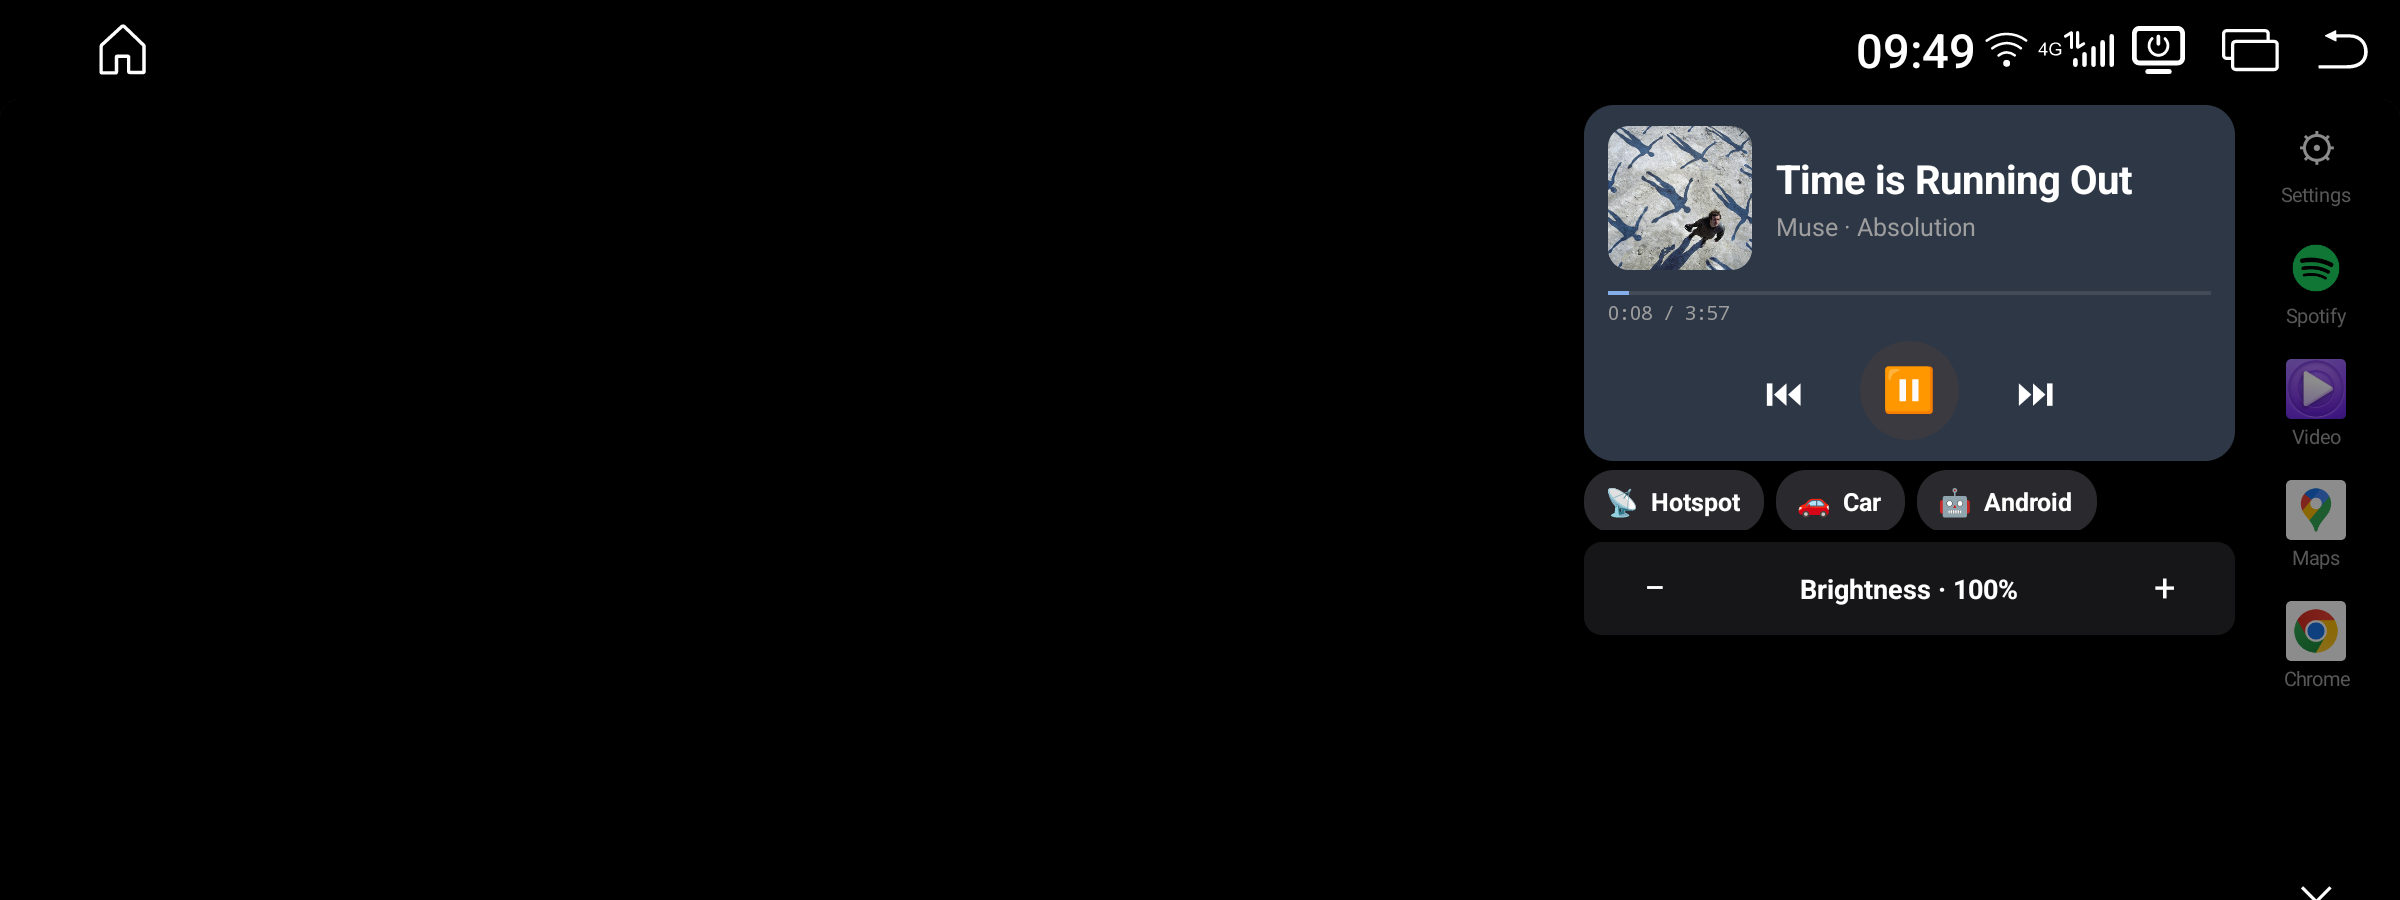
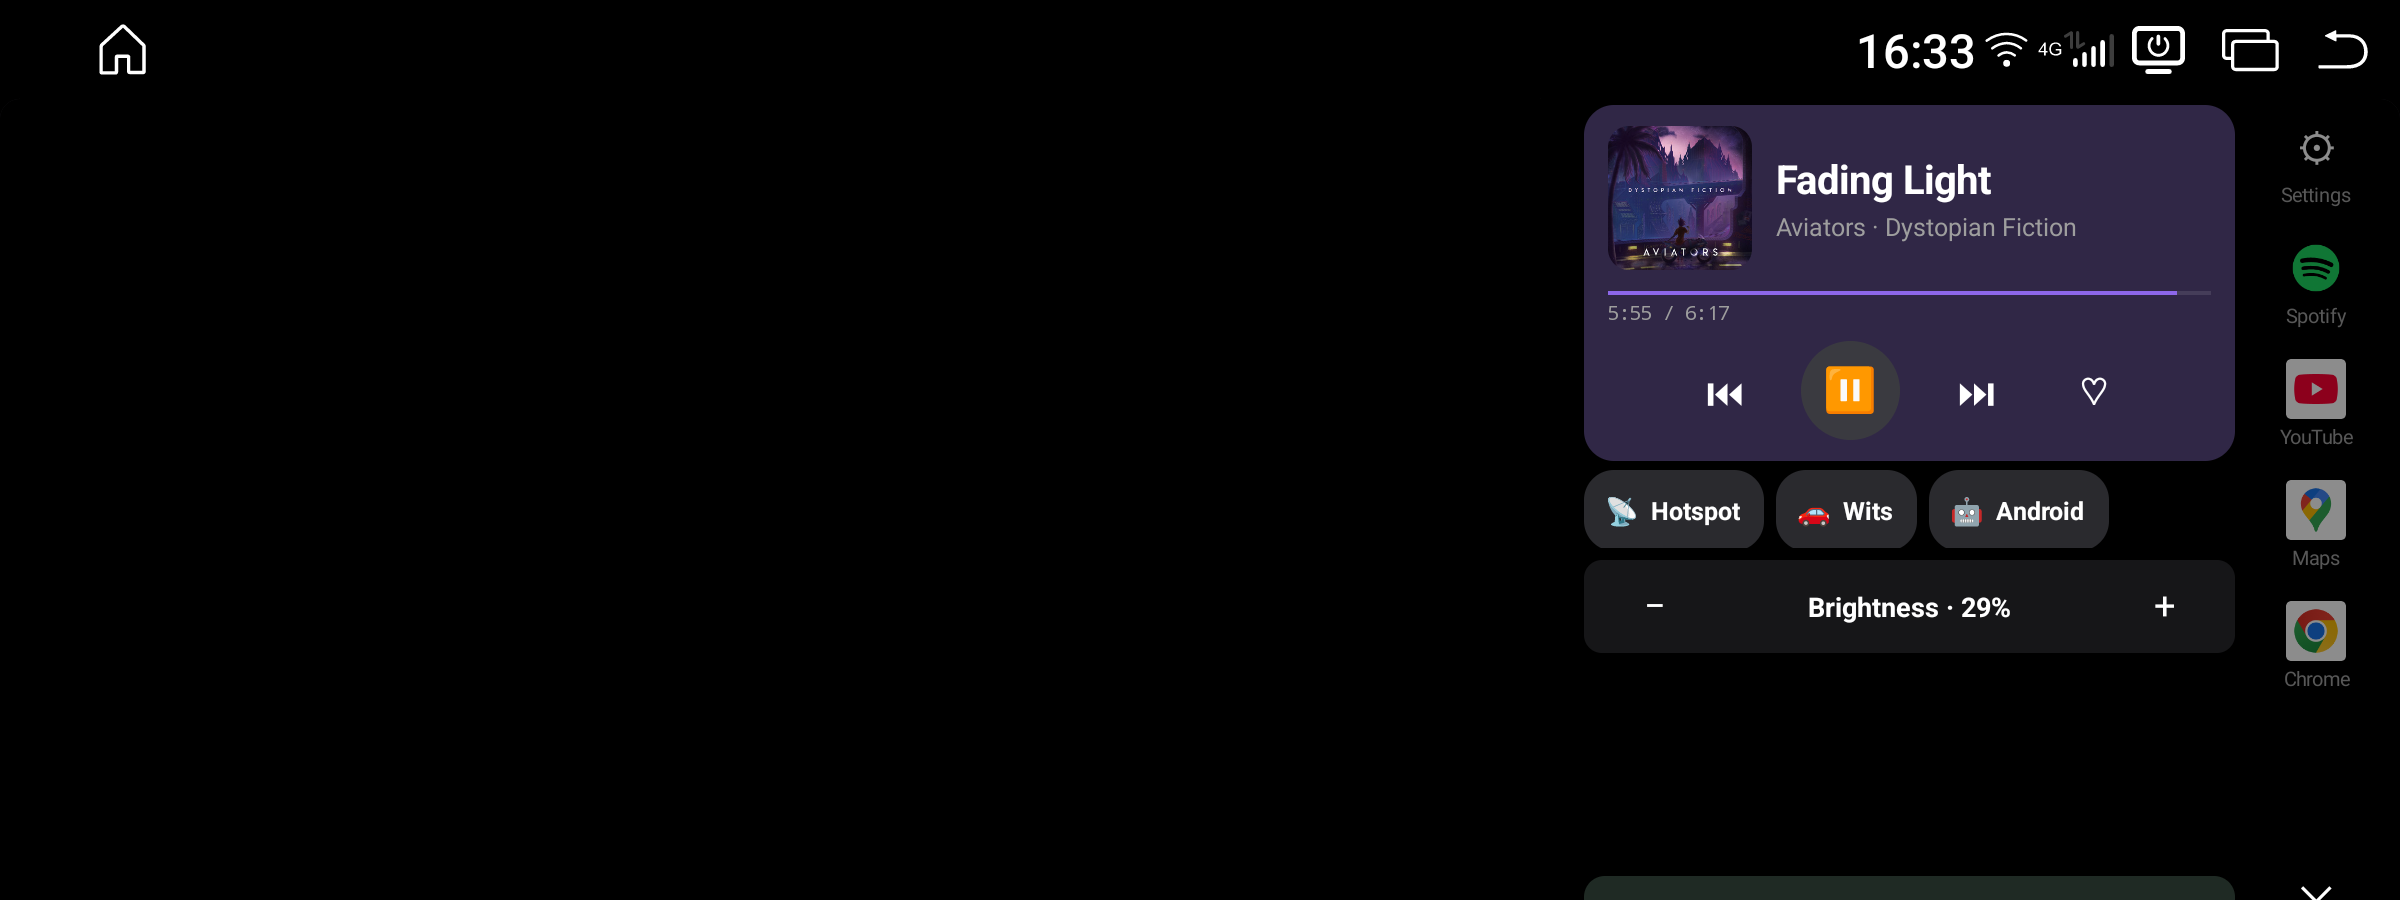
docs: refresh the README screenshots
The three shots predated the navigation row, the save-to-collection button, the
taller quick-row pills and the "Wits" relabel — so the front page showed an app
that no longer existed. Recaptured from the unit in the same three states.

The configuration shot happens to be the most useful of the set now: it carries
the manoeuvre row with an arrow, a real distance and the trip summary, which the
two-tile shot does not, since Maps sends no per-manoeuvre distance while simply
continuing along a road.

Captions updated to describe what is actually visible, including why the
manoeuvre row sits below the controls rather than above them.

diff --git a/README.md b/README.md
@@ -26,10 +26,11 @@ panel — media, brightness, hotspot, app switcher — in the other, side by sid
 ## What it looks like
 
 The Cockpit: a floating app in one tile, the control panel in the other. The panel carries
-media transport, brightness, the hotspot toggle, shortcuts into the vendor's car settings and
-plain Android settings, and a rail to switch the floating app.
+media transport with a save-to-collection button, brightness, the hotspot toggle, shortcuts
+into the vendor's car settings and plain Android settings, and a rail to switch the floating
+app. While a route is running, the next manoeuvre sits along the bottom.
 
-![The Cockpit — Maps in the left tile, control panel in the right](docs/images/cockpit.png)
+![The Cockpit — Maps navigating in the left tile, control panel in the right](docs/images/cockpit.png)
 
 Tapping the lit rail tile hides the floating app. The panel takes the whole display and paints
 the freed strip black, keeping its controls where your hand already expects them.
@@ -37,7 +38,9 @@ the freed strip black, keeping its controls where your hand already expects them
 ![The Cockpit with the floating app hidden](docs/images/cockpit-hidden.png)
 
 The gear opens the configuration in the Cockpit's *left* tile — the slot the map usually
-occupies — so the panel stays live beside it and nothing goes full-screen.
+occupies — so the panel stays live beside it and nothing goes full-screen. The manoeuvre row
+is pinned below the controls rather than above them, so a route starting or ending never
+shifts the buttons under your hand.
 
 ![Configuration open as the Cockpit's left tile](docs/images/cockpit-settings.png)
 
